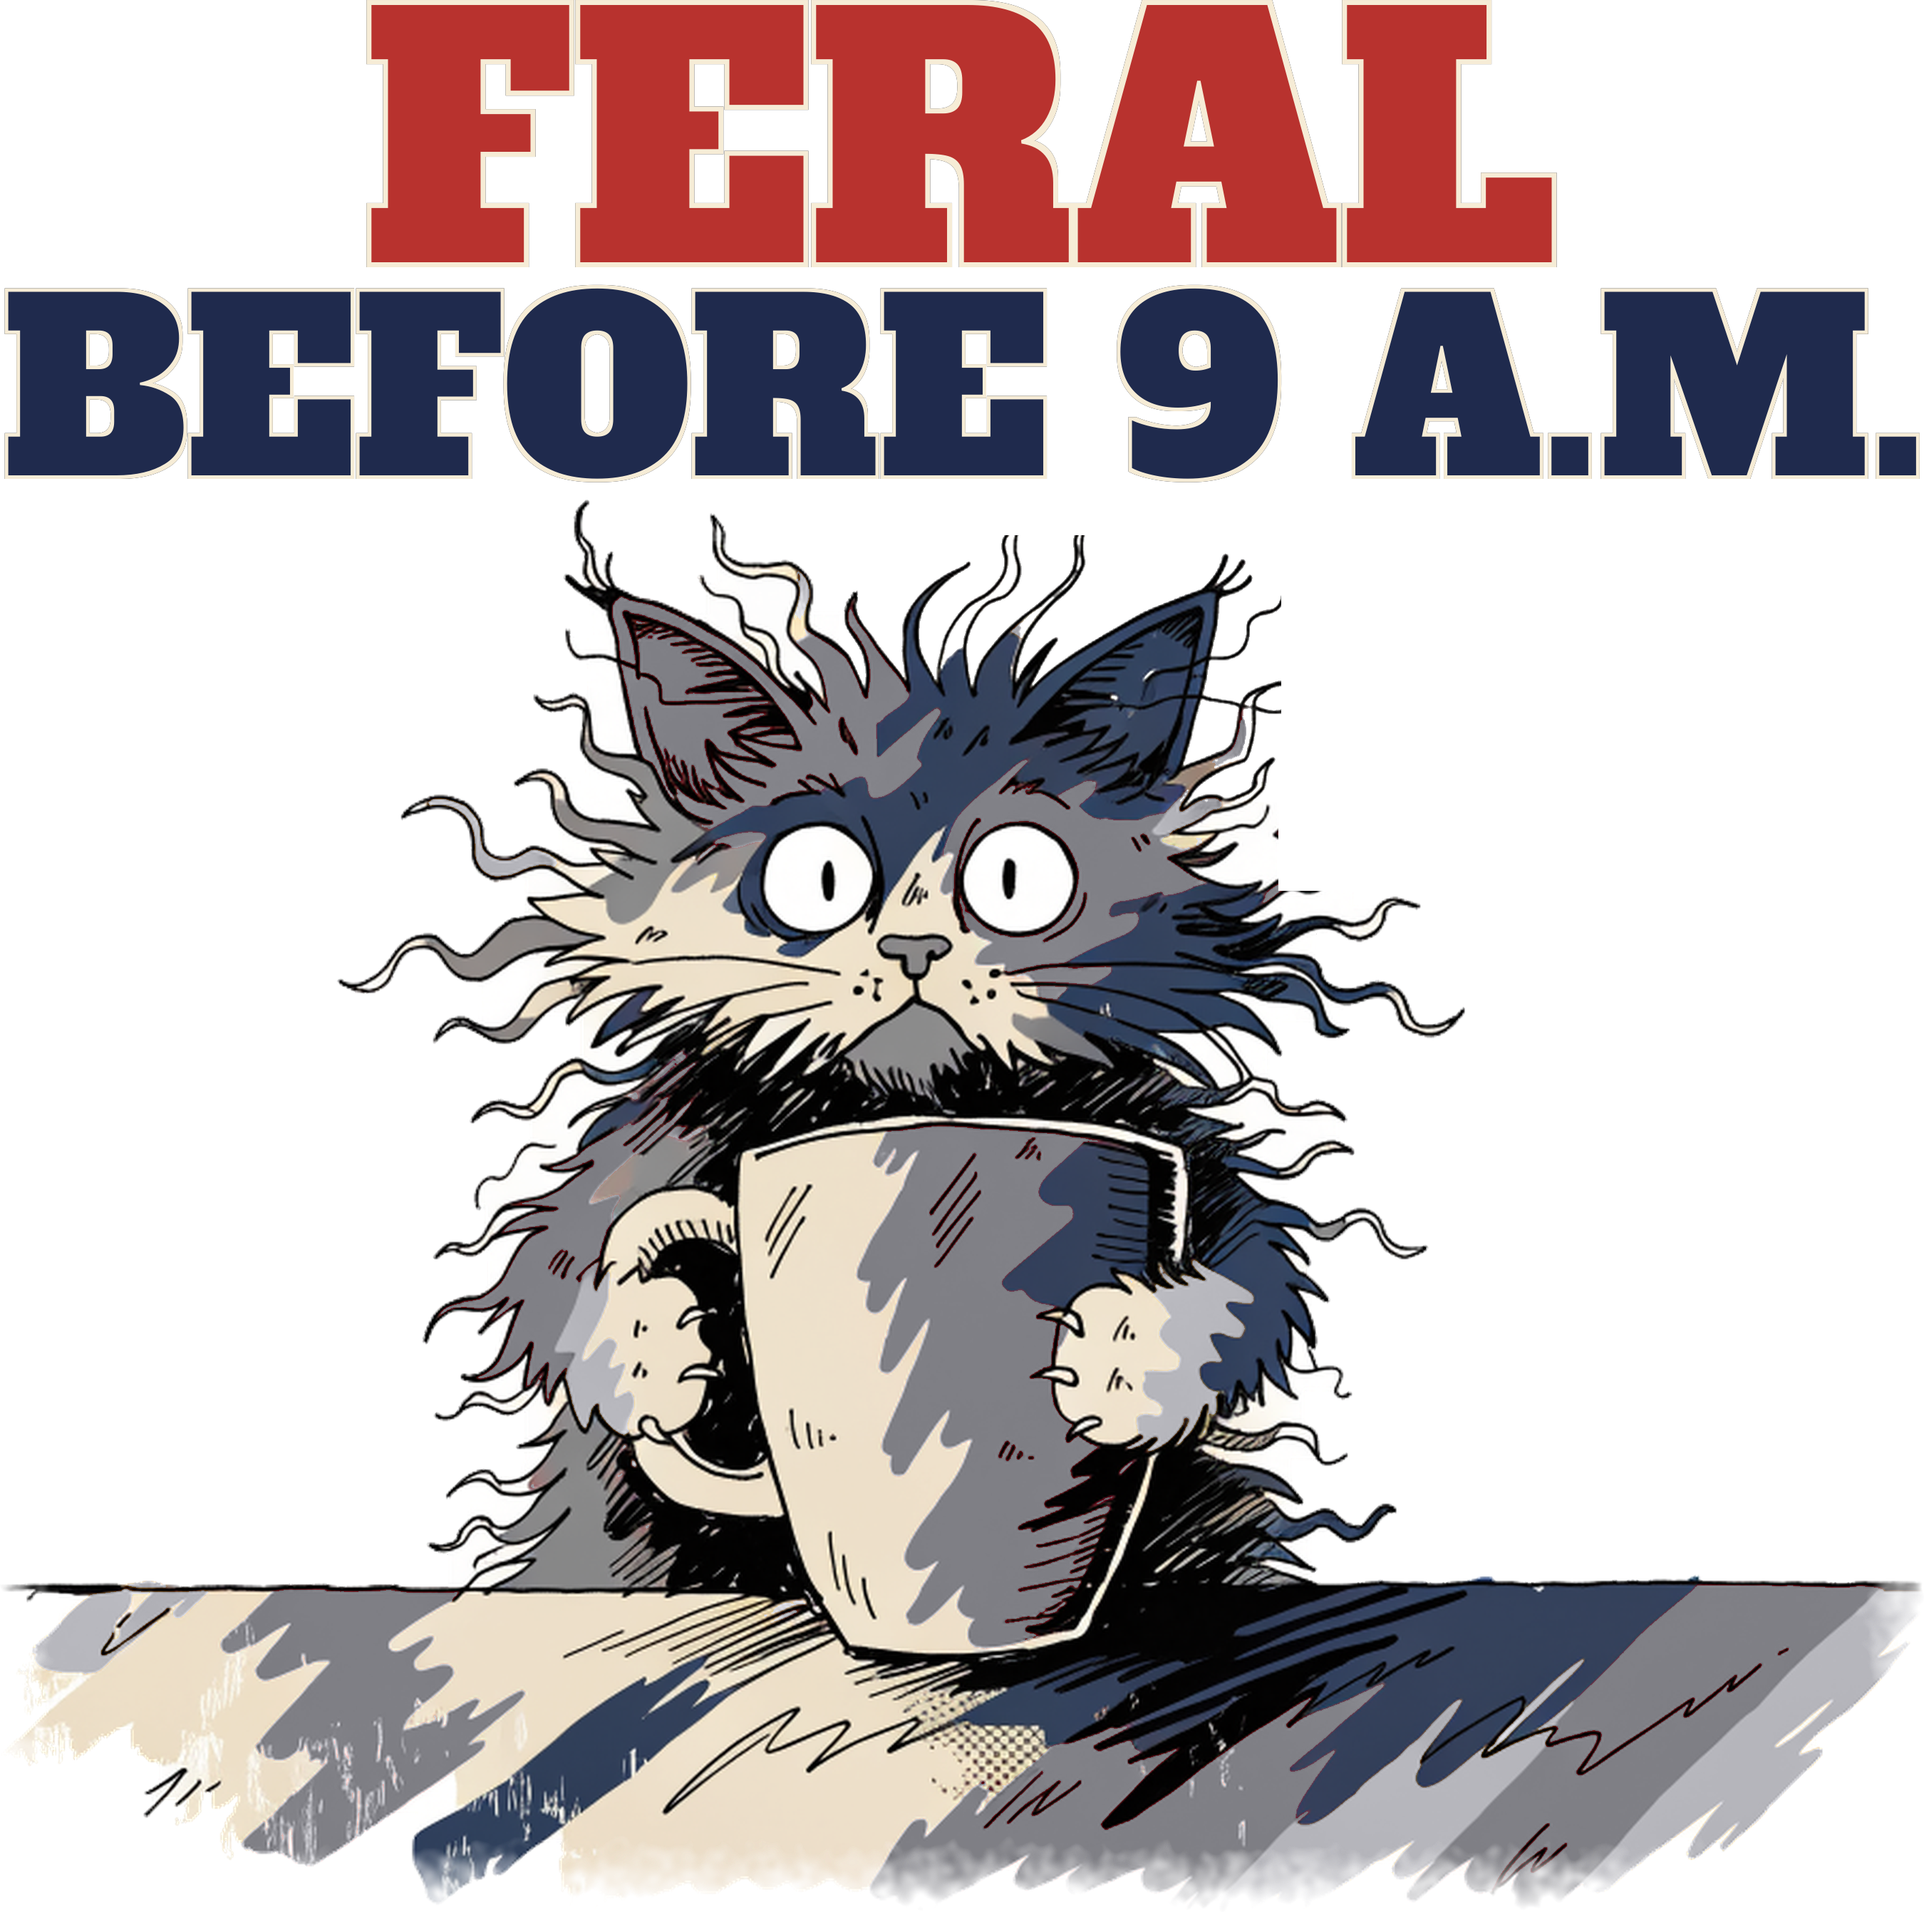
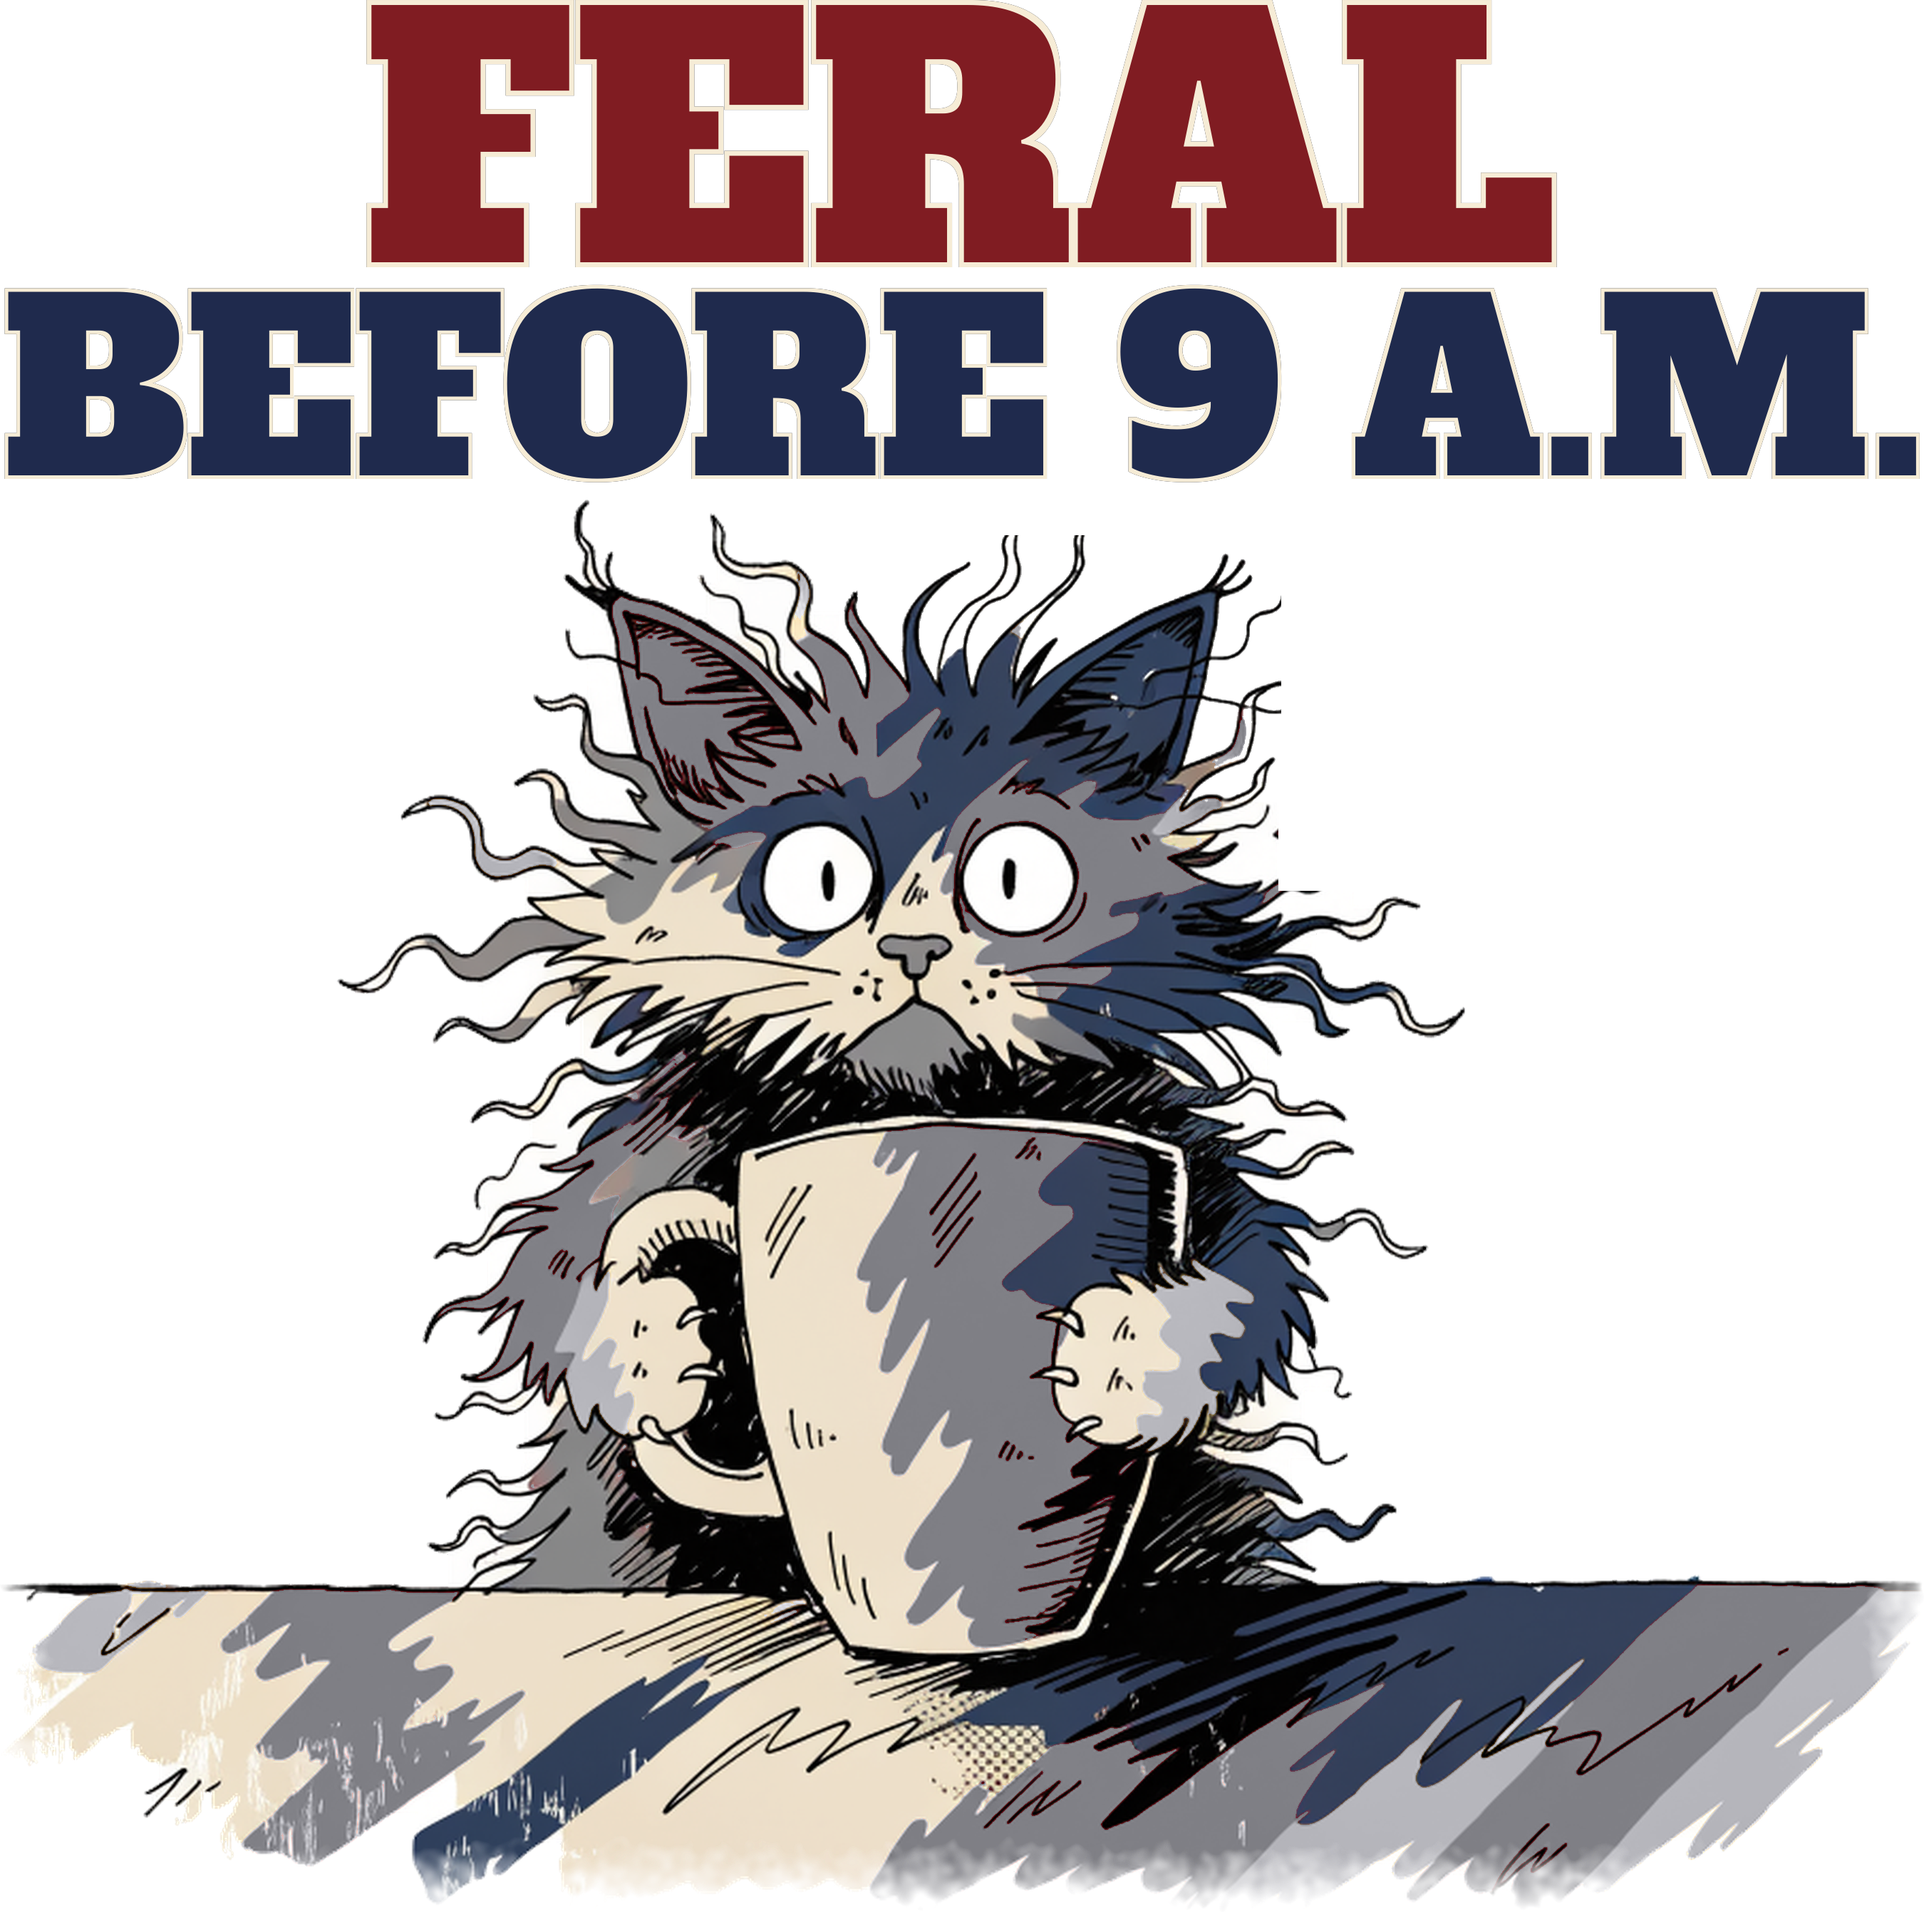
[B] 593 darker FERAL

Changed region(s): [[0.1867, 0.0, 0.8089, 0.1547]]

diff --git a/designs/b593/build2.py b/designs/b593/build2.py
@@ -3,7 +3,7 @@ from designs.c_common import *
 # REDO 06:40: heavy BEFORE 9 A.M. stacked with FERAL above the cat as one lockup; art recolored grey tabby, plume erased (art_pp2.png)
 AW, W, hf, pf = int(sys.argv[1]), int(sys.argv[2]), float(sys.argv[3]), float(sys.argv[4])
 a = load_art('designs/b593/art_pp2.png', minarea=3000); a = a.resize((AW, round(a.height * AW / a.width)), Image.LANCZOS)
-RED = (184, 50, 46, 255); NAVY = (31, 42, 77, 255)
+RED = (128, 28, 34, 255); NAVY = (31, 42, 77, 255)
 hd = line('FERAL', 'alfa', hf, W, RED, CREAM, kw=15); pn = line('BEFORE 9 A.M.', 'alfa', pf, W, NAVY, CREAM, kw=11)
 out = lockup(a, W, [hd, pn], [], 'b593', {'white': (250, 250, 250, 255)}, g=24)
 out = out.crop(out.getchannel('A').point(lambda v: 255 if v > 10 else 0).getbbox()); out.save('docs/print-files/593-feral.png', dpi=(300, 300))
